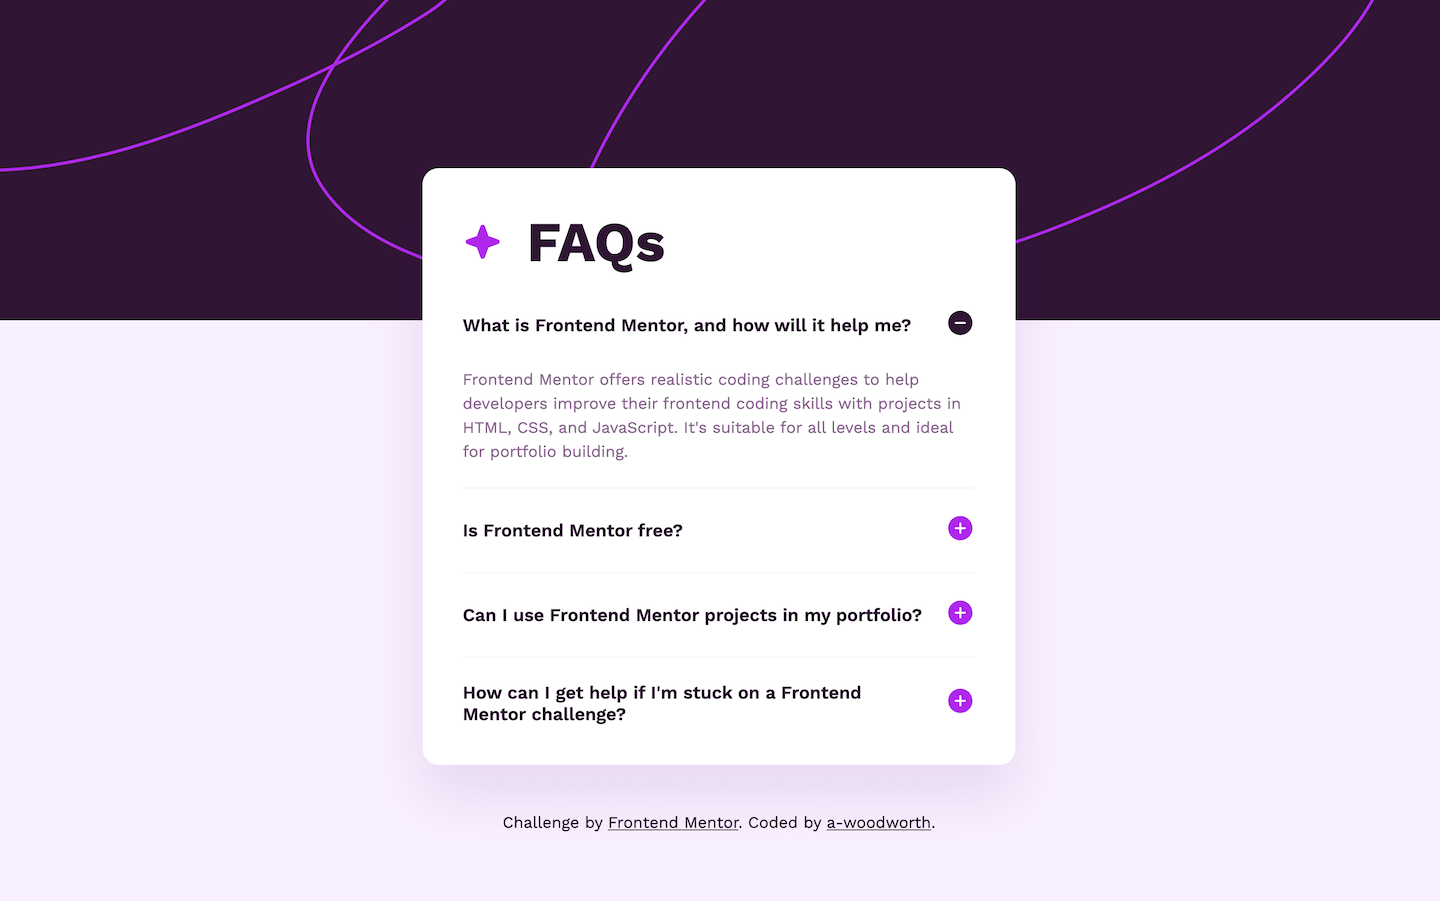
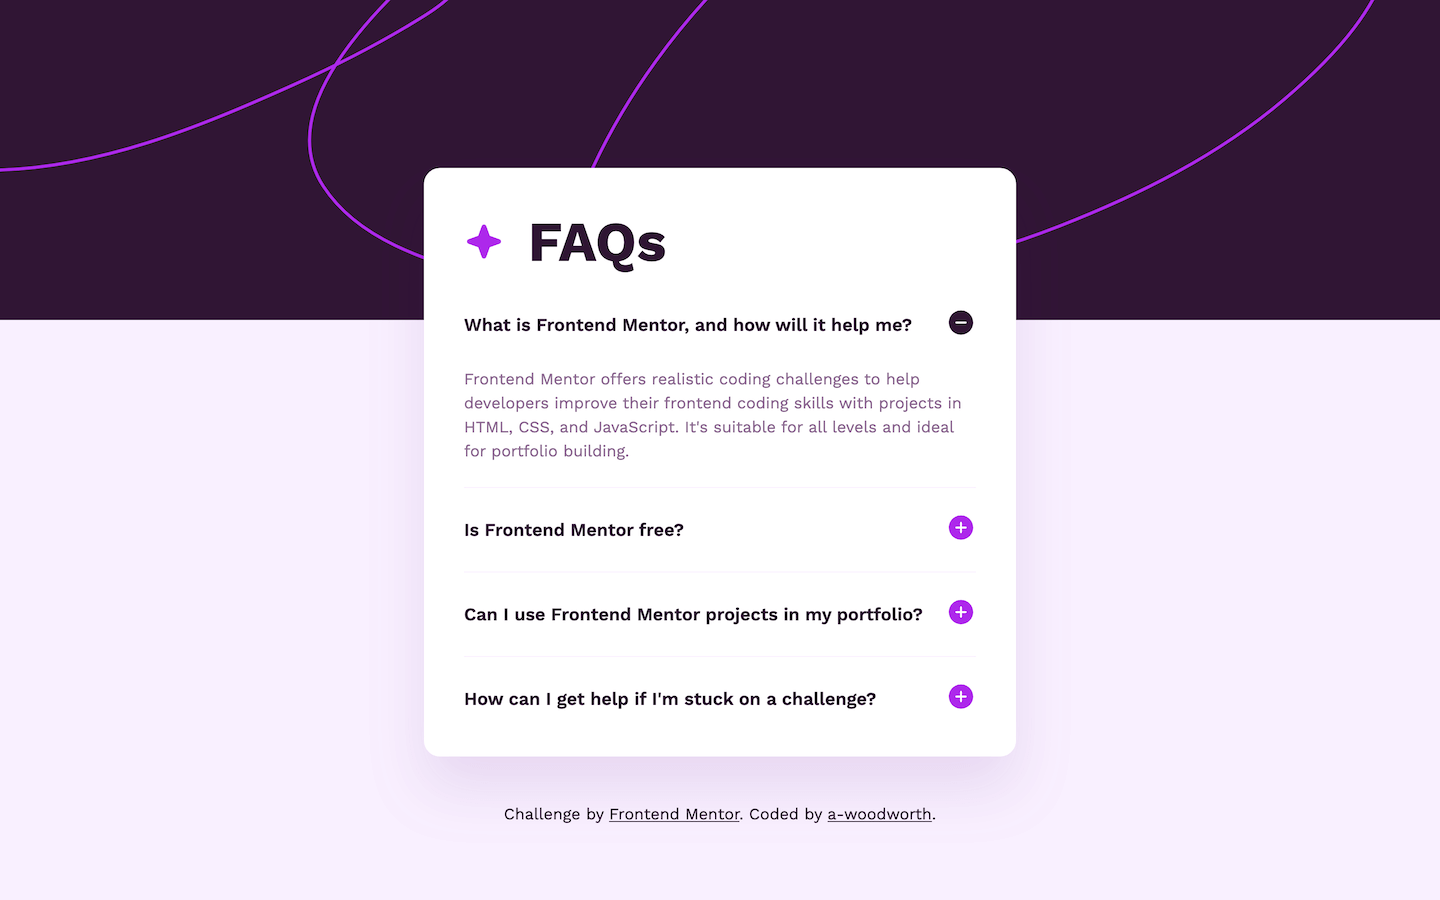
Update index text to match design text. Update screenshots.

diff --git a/index.html b/index.html
@@ -63,8 +63,7 @@
           </details>
           <details class="accordion-group">
             <summary class="accordion-title">
-              How can I get help if I'm stuck on a Frontend Mentor
-              challenge?
+              How can I get help if I'm stuck on a challenge?
             </summary>
             <p class="accordion-text">
               The best place to get help is inside Frontend Mentor's
